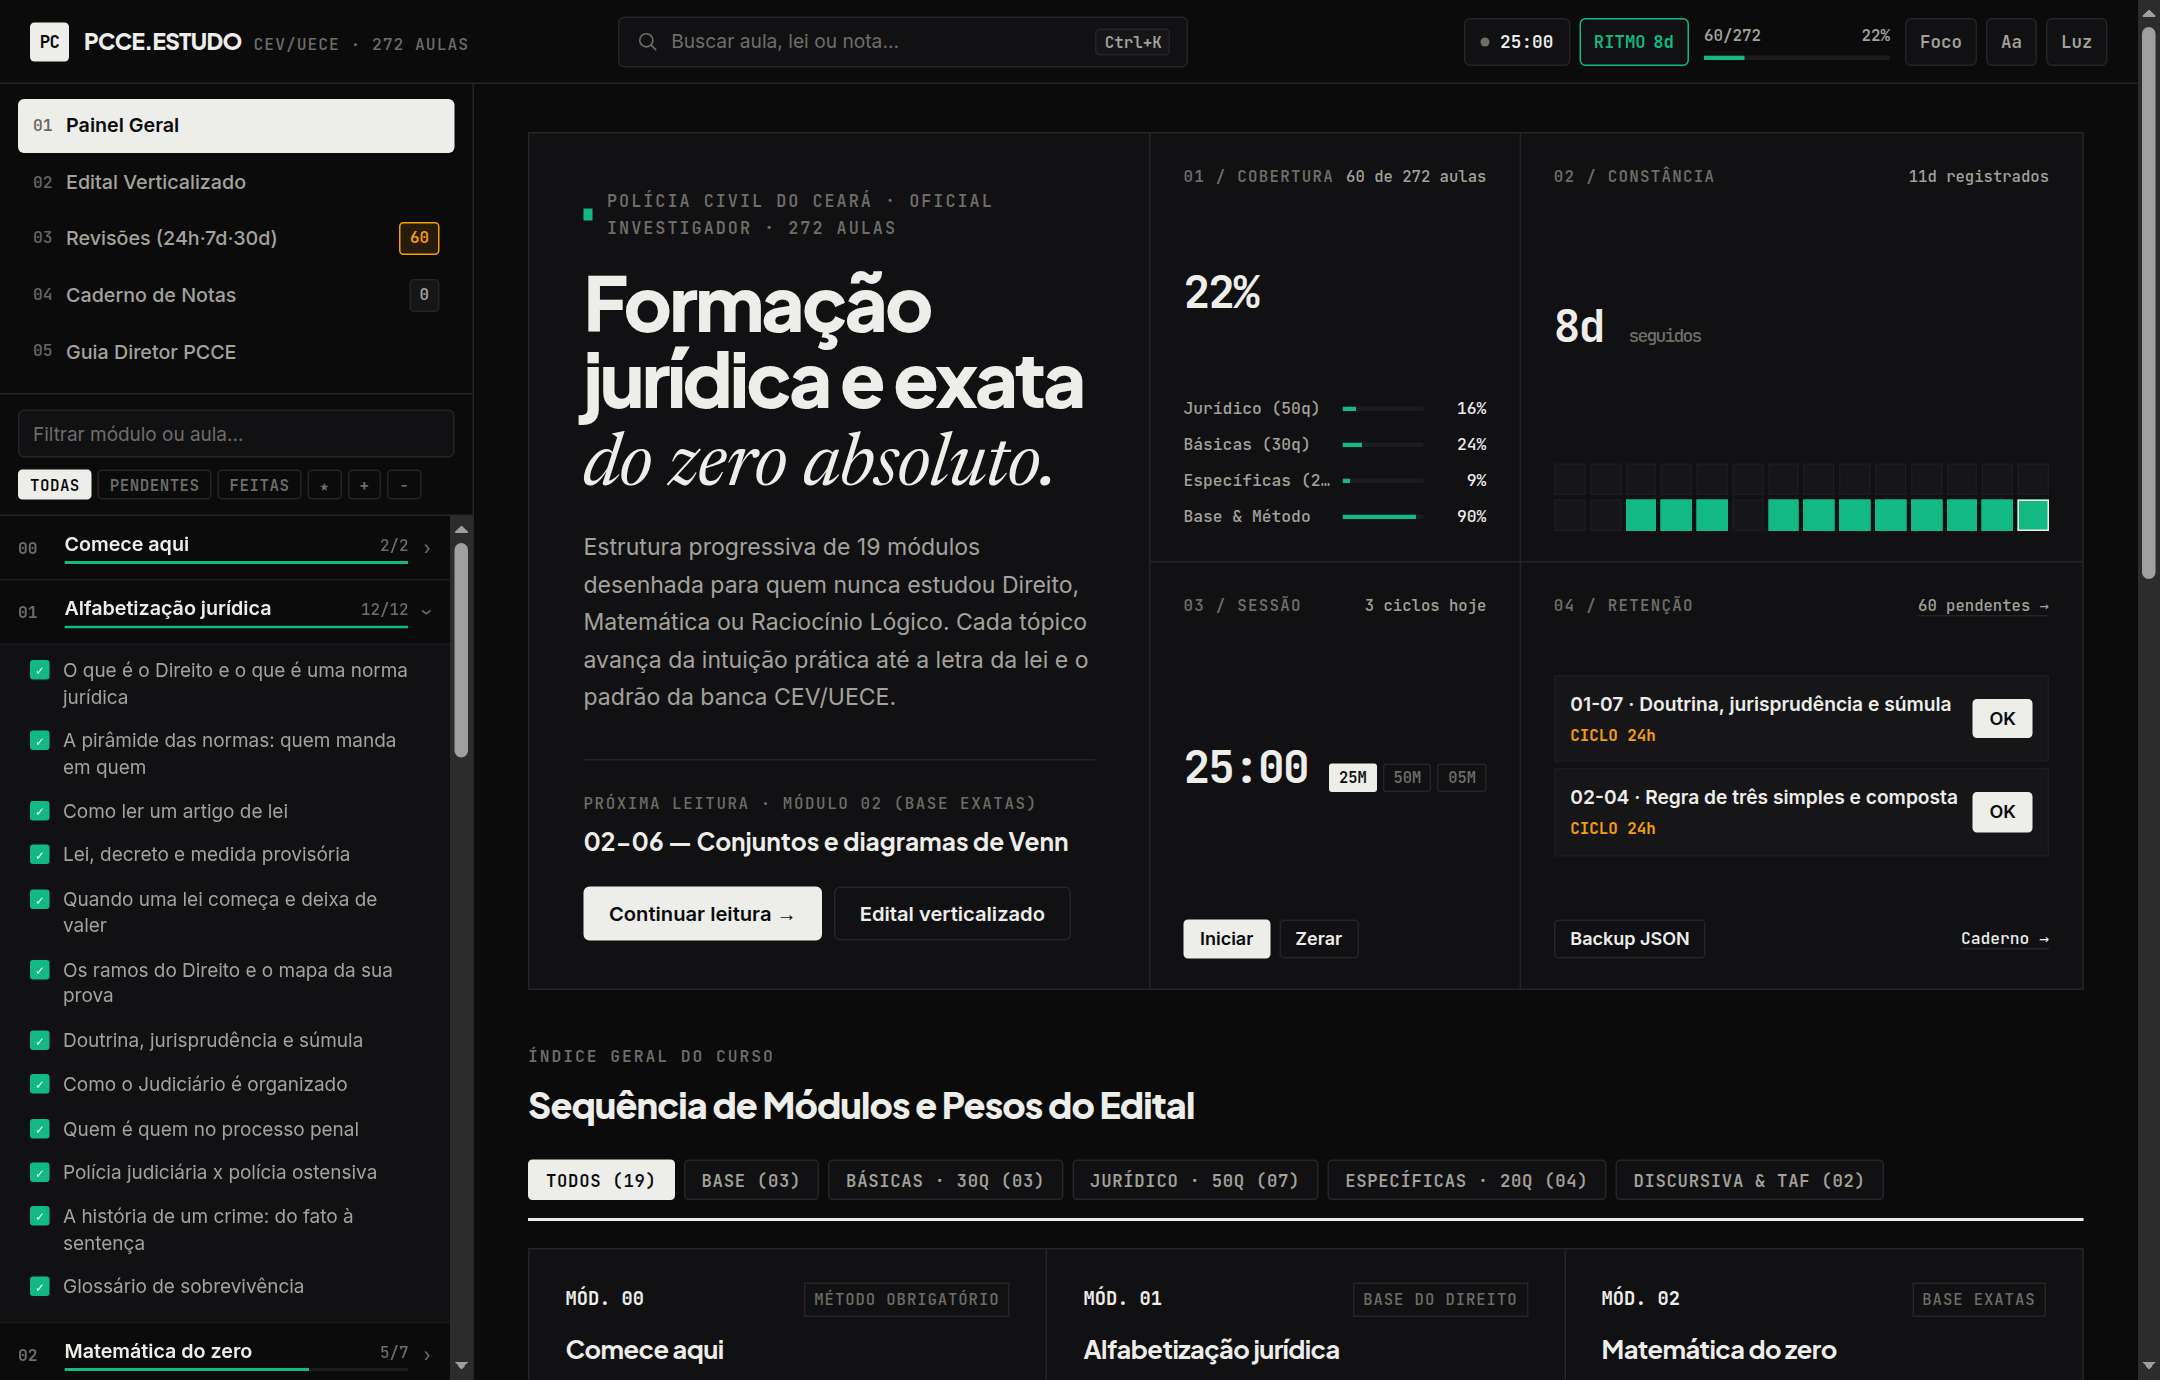
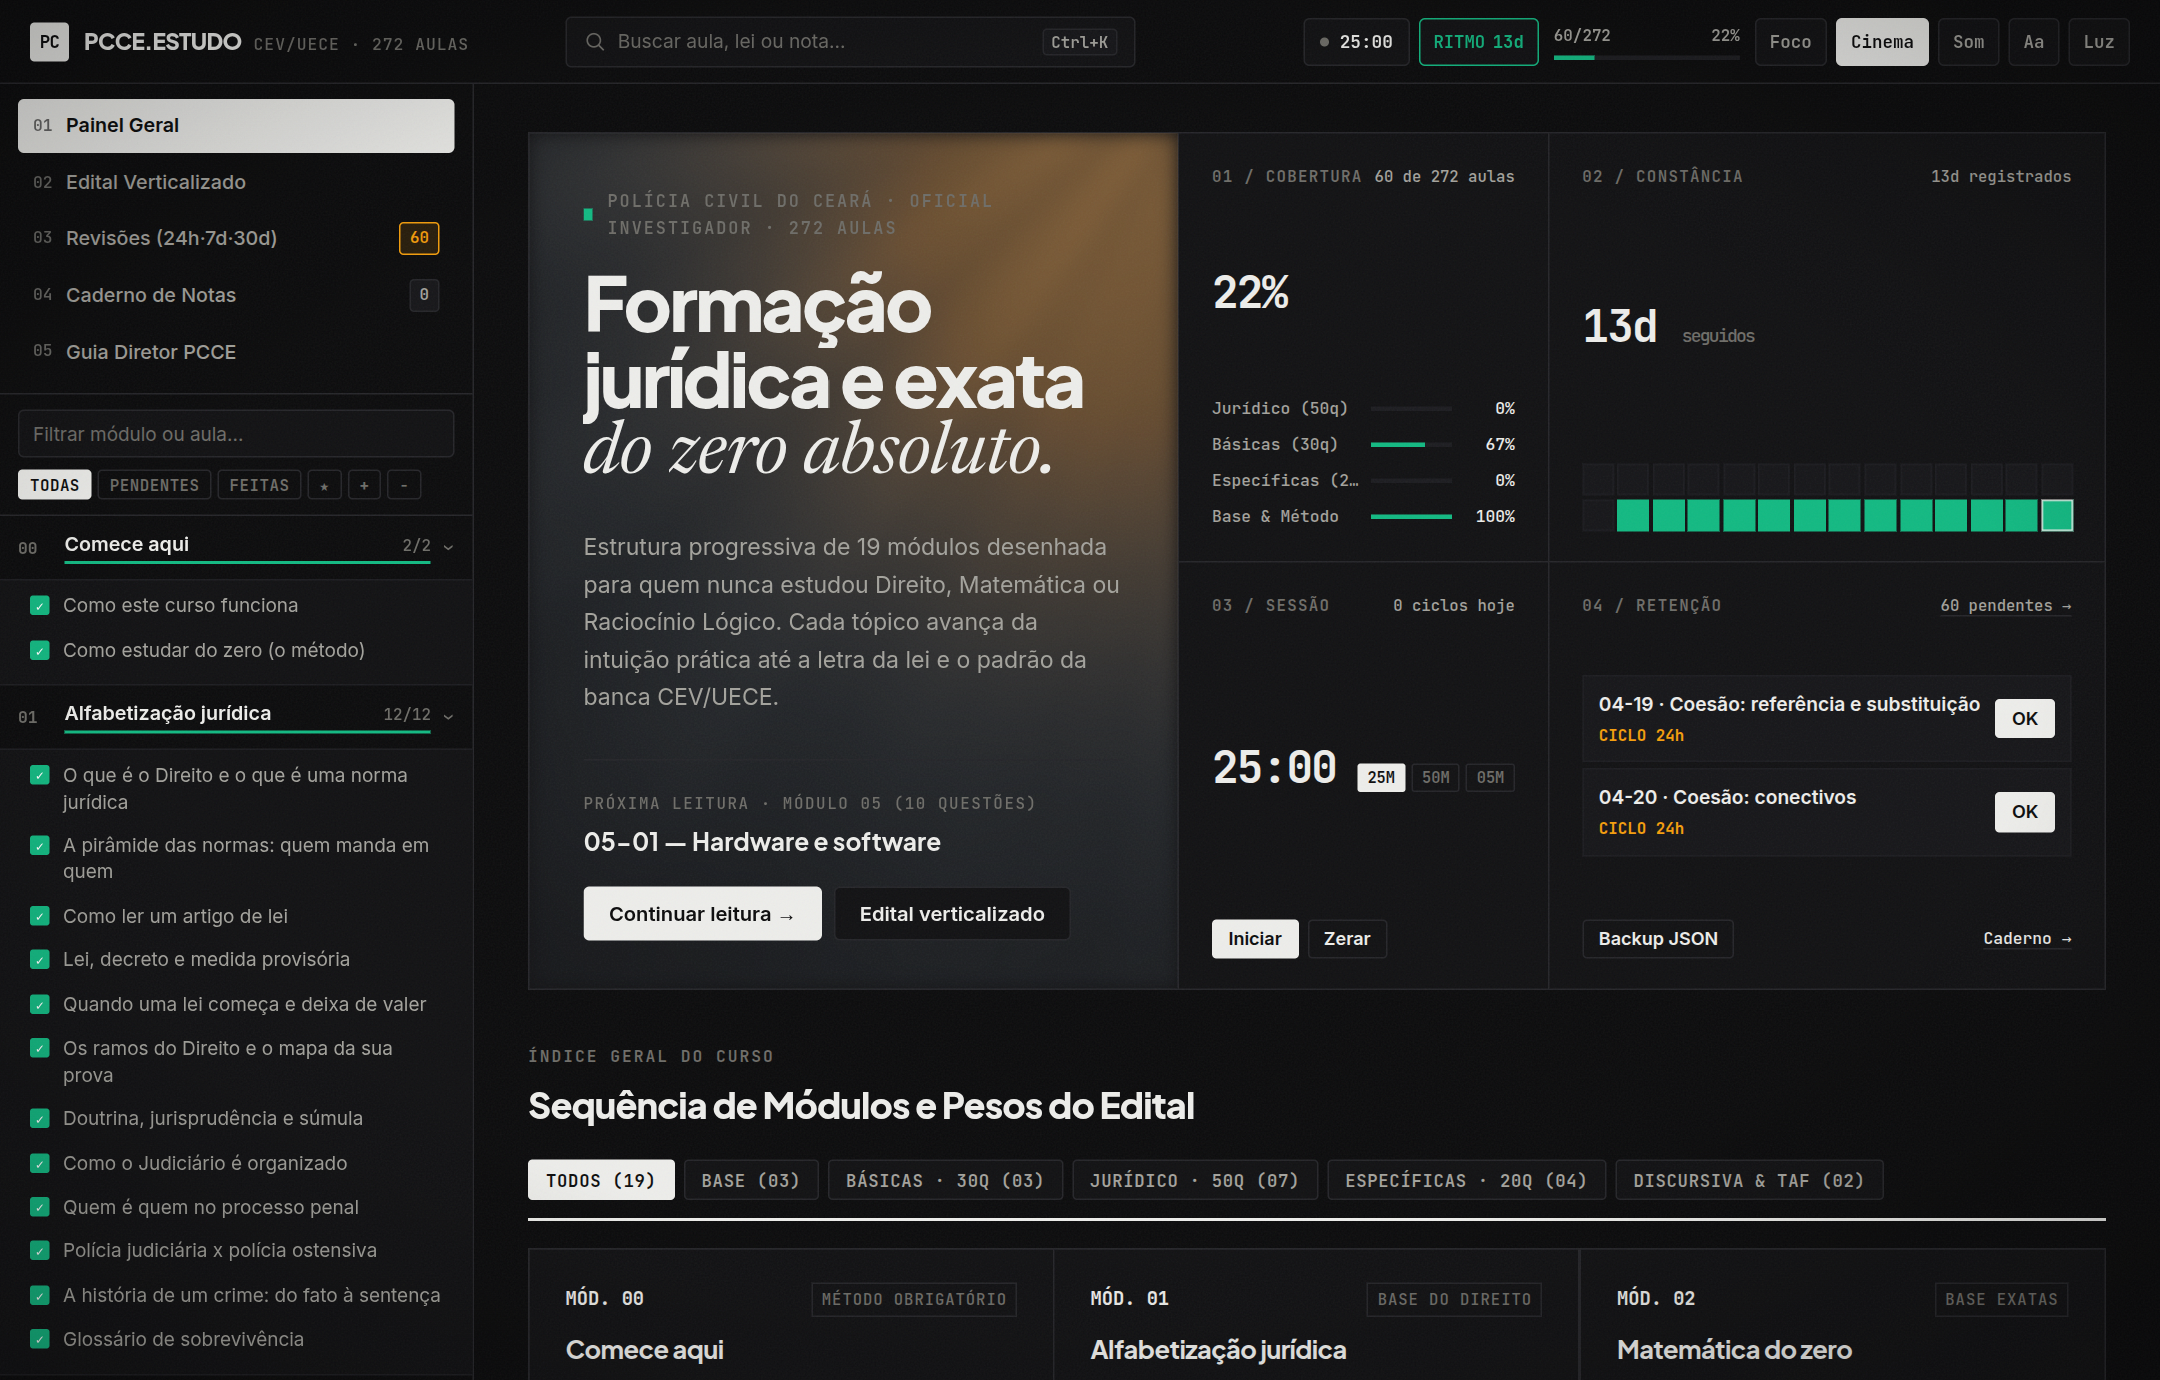
docs(readme): refresh screenshots and technical details

diff --git a/README.md b/README.md
@@ -23,7 +23,7 @@ A interface foi desenhada sobre princípios de **Grade Arquitetural Suíça** e 
 | Tema Papel Editorial (`#F6F5F0` / `#111110`) | Tema Carbono Obsidiana (`#0B0B0C` / `#EDEDEA`) |
 | :---: | :---: |
 | ![Painel Geral no Tema Papel Editorial](docs/screenshots/01-painel-editorial.png) | ![Painel Geral no Tema Carbono Obsidiana](docs/screenshots/02-painel-obsidian.png) |
-| *Grade Suíça com métricas de cobertura por bloco, matriz de constância de 28 dias, cronômetro de sessão e fila de retenção.* | *Modo noturno de carbono neutro sem brilho artificial, calibrado para sessões noturnas prolongadas.* |
+| *Grade Suíça com métricas de cobertura por bloco, matriz de constância de 28 dias, cronômetro de sessão, fila de retenção e luz de projetor do modo Cinema.* | *Modo noturno de carbono neutro sem brilho artificial, calibrado para sessões noturnas prolongadas.* |
 
 ### 02 · Leitura Normativa (`§ 01..§ 10`), Autoavaliação e Caderno de Estudos
 
@@ -157,11 +157,11 @@ Cada uma das **272 aulas** segue rigorosamente uma estrutura em **9 seções pad
   - `JetBrains Mono` (`tabular-nums` para contadores, cronômetro, índices `§ 01` e códigos de módulo).
 - **Acessibilidade (`a11y`):**
   - Landmarks semânticos (`header`, `nav`, `main`, `aside`, `article`), link de salto rápido (*Pular para o conteúdo principal*), atributos `aria-live`, `aria-expanded`, `aria-current="page"` e `aria-pressed`.
-  - Navegação integral por teclado: `Ctrl+K` ou `/` (busca global), `F` (modo foco), `[` e `]` (aula anterior/próxima), `Esc` (fechar modais).
+  - Navegação integral por teclado: `Ctrl+K` ou `/` (busca global), `F` (modo foco), `↑` `↓` e `Enter` (resultados da busca), `Esc` (fechar janelas e o menu lateral).
   - Suporte a `prefers-reduced-motion: reduce`, 4 escalas de fonte (`Aa`) e estilo dedicado de impressão (`@media print`).
 - **Performance e Resiliência:**
   - Cada aula vira um *chunk* próprio no build (`import.meta.glob`), com cache em memória do conteúdo renderizado e *prefetch* automático da próxima aula via `requestIdleCallback`.
-  - Persistência 100% local (`localStorage`) retrocompatível (`pcce.feitas`, `pcce.abertos`, `pcce.tema`, `pcce.nota.<id>`, `pcce.dias`, `pcce.revisoes`, `pcce.questoes`, `pcce.favoritos`) com exportação e restauração em `.json` e `.md`.
+  - Persistência 100% local (`localStorage`) retrocompatível (`pcce.feitas`, `pcce.abertos`, `pcce.ultima`, `pcce.nota.<id>`, `pcce.dias`, `pcce.revisoes`, `pcce.questoes`, `pcce.favoritos`, `pcce.pomoStats`, `pcce.tema`, `pcce.escalaFonte`, `pcce.cinema`, `pcce.somCinema`) com exportação e restauração em `.json` e `.md`.
 - **Segurança Web:**
   - Política de Segurança de Conteúdo (`Content-Security-Policy`) declarada e sanitização de DOM pós-renderização Markdown contra injeção de scripts ou atributos `on*`.
 
@@ -171,6 +171,7 @@ Cada uma das **272 aulas** segue rigorosamente uma estrutura em **9 seções pad
 
 ```text
 .
+├── .github/workflows/          deploy no GitHub Pages (lint, testes e build a cada push na main)
 ├── index.html                  ponto de entrada do Vite (SEO, CSP e JSON-LD)
 ├── GUIA-COMPLETO-PCCE.md       plano diretor completo (edital, ciclos, TAF e bibliografia)
 ├── aulas/
@@ -181,10 +182,11 @@ Cada uma das **272 aulas** segue rigorosamente uma estrutura em **9 seções pad
 │   ├── main.tsx · App.tsx      inicialização, provedores e rotas
 │   ├── config/ constants/      configuração do roteador, metadados do edital, chaves e atalhos
 │   ├── contexts/               estudo, preferências, cronômetro, avisos e janelas
-│   ├── hooks/                  navegação cinematográfica, atalhos, leitura e sumário
+│   ├── hooks/                  navegação cinematográfica, rolagem suave, atalhos, leitura e sumário
 │   ├── modules/study/
 │   │   ├── layout/             estrutura com cabeçalho, trilha lateral e conteúdo
-│   │   ├── components/         cabeçalho, trilha, busca Ctrl+K, backup, aula, caderno, sumário
+│   │   ├── components/         cabeçalho, trilha, busca Ctrl+K, backup, aula, caderno, sumário, luz WebGL
+│   │   ├── scenes/             cenas guiadas pela rolagem (GSAP ScrollTrigger) do painel e da aula
 │   │   └── screens/            Painel, Aula, Edital, Revisões, Caderno e Guia
 │   ├── service/                catálogo da trilha e carregamento das aulas
 │   ├── styles/                 sistema Swiss Editorial e camada cinematográfica
